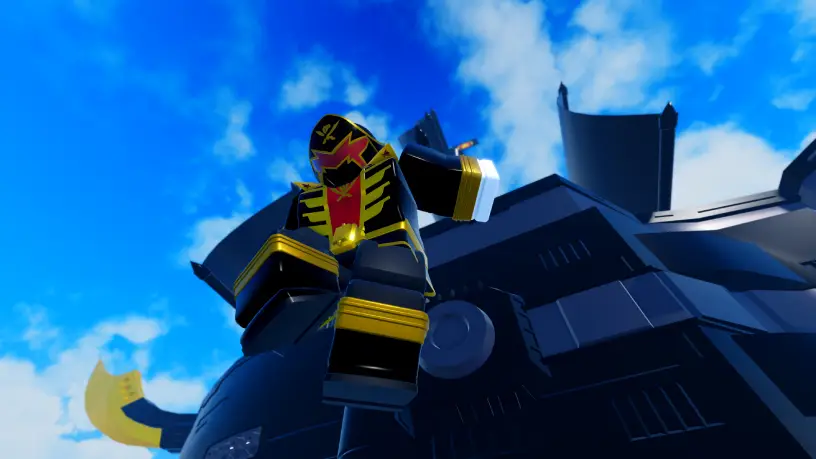
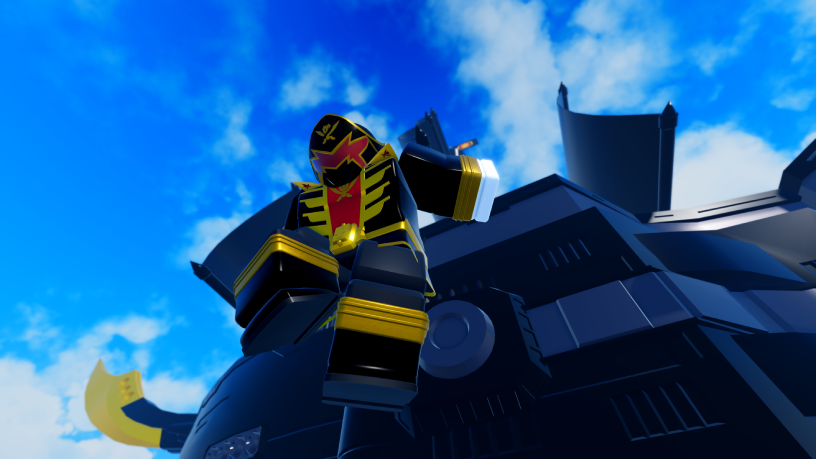
Convert images to webp format

diff --git a/index.html b/index.html
@@ -101,7 +101,7 @@
                         </div>
                     </div>
 
-                    <img src="assets/Image/RangerSentry.png" class="card_bg_image" alt="Group of Ranger Sentries marching">
+                    <img src="assets/Image/RangerSentry.webp" class="card_bg_image" alt="Group of Ranger Sentries marching">
                 </div>
             </section>
             
@@ -129,7 +129,7 @@
                         </div>
                     </div>
 
-                    <img src="assets/Image/Zeo_Rollcall.png" class="card_bg_image" alt="Zeo Ranger doing their roll call pose">
+                    <img src="assets/Image/Zeo_Rollcall.webp" class="card_bg_image" alt="Zeo Ranger doing their roll call pose">
                 </div>
             </section>
             
@@ -154,7 +154,7 @@
                         </div>
                     </div>
 
-                    <img src="assets/Image/Angel_Grove_City.png" class="card_bg_image" alt="Foggy view of Angel Grove City">
+                    <img src="assets/Image/Angel_Grove_City.webp" class="card_bg_image" alt="Foggy view of Angel Grove City">
                 </div>
             </section>
             
@@ -168,7 +168,7 @@
                         </div>
                 
                         <div class="col pb-2">
-                            <h3>Engage in PVE or fight with other players in PVP battles</h3>
+                            <h3>Engage in PVE or fight other players in PVP battles</h3>
                         </div>
                         
                         <div class="col">
@@ -180,7 +180,7 @@
                         </div>
                     </div>
 
-                    <img src="assets/Image/DT_fight.png" class="card_bg_image" alt="Dino Thunder White fighting Dino Thunder Black">
+                    <img src="assets/Image/DT_fight.webp" class="card_bg_image" alt="Dino Thunder White fighting Dino Thunder Black">
                 </div>
             </section>
             
@@ -205,7 +205,7 @@
                         </div>
                     </div>
 
-                    <img src="assets/Image/Skin.png" class="card_bg_image" alt="MMPR 1995 Movie skin">
+                    <img src="assets/Image/Skin.webp" class="card_bg_image" alt="MMPR 1995 Movie skin">
                 </div>
             </section>
         </main>

diff --git a/about.html b/about.html
@@ -54,7 +54,7 @@
                         </div>
                     </div>
 
-                    <img src="assets/Image/MainGame.png" class="card_bg_image">
+                    <img src="assets/Image/MainGame.webp" class="card_bg_image">
                 </div>
             </section>
             
@@ -84,7 +84,7 @@
                         </div>
                     </div>               
                     
-                    <img src="assets/Image/Sky_Ship.png" class="card_bg_image">
+                    <img src="assets/Image/Sky_Ship.webp" class="card_bg_image">
                 </div>
             </section>
 
@@ -136,7 +136,7 @@
                             </div>
                         </div>
 
-                        <img src="assets/Image/Ranger_Lineup_Tinted.png" class="card_bg_image">
+                        <img src="assets/Image/Ranger_Lineup_Tinted.webp" class="card_bg_image">
                     </div>
 
                     <div class="showcase_slide row">
@@ -180,7 +180,7 @@
                             </div>
                         </div>
 
-                        <img src="assets/Image/mmpr_duel_tinted.png" class="card_bg_image">
+                        <img src="assets/Image/mmpr_duel_tinted.webp" class="card_bg_image">
                     </div>
 
                     <div class="showcase_slide row">
@@ -223,10 +223,8 @@
                             </div>
                         </div>
 
-                        <img src="assets/Image/Zord_Graveyard_Tinted.png" class="card_bg_image">
+                        <img src="assets/Image/Zord_Graveyard_Tinted.webp" class="card_bg_image">
                     </div>
-                    
-                    <!-- <img src="assets/Image/Zord_Graveyard.png" class="card_bg_image"> -->
 
                     <button class="slideshow_btn" id="nextBtn">›</button>
                 </div>
@@ -326,7 +324,7 @@
                         </div>
                     </div>
 
-                    <img src="assets/Image/Zord_Graveyard.png" class="card_bg_image">
+                    <img src="assets/Image/Zord_Graveyard_Tinted.webp" class="card_bg_image">
                 </div>
             </section>
         </main>

diff --git a/postings/new_suits.html b/postings/new_suits.html
@@ -28,7 +28,7 @@
                 <div class="content_container row d-flex mt-5 px-5 pb-5
                                 flex-column align-items-center justify-content-center">
                     <div class="content_title col d-flex flex-column mt-5 pt-4">
-                        <h1>THE DREAM WORLD</h1>
+                        <h1>NEW RANGER SUITS!</h1>
                         <svg class="divider-svg" viewBox="0 0 600 40">
                             <line class="divider-line left-line" x1="60" y1="20" x2="280" y2="20" />
 
@@ -52,7 +52,7 @@
 
                             <figure class="post_img d-flex flex-column mt-2
                                             align-items-center justify-content-center">
-                                <img src="../assets/Image/Week2.png" alt="2 new rangers posing for the camera">
+                                <img src="../assets/Image/Week2.webp" alt="2 new rangers posing for the camera">
                                 
                                 <figcaption class="mt-2">
                                     New Ranger Suits Preview

diff --git a/postings/gokai_black.html b/postings/gokai_black.html
@@ -28,7 +28,7 @@
                 <div class="content_container row d-flex mt-5 px-5 pb-5
                                 flex-column align-items-center justify-content-center">
                     <div class="content_title col d-flex flex-column mt-5 pt-4">
-                        <h1>THE DREAM WORLD</h1>
+                        <h1>GOKAI BLACK UPDATE</h1>
                         <svg class="divider-svg" viewBox="0 0 600 40">
                             <line class="divider-line left-line" x1="60" y1="20" x2="280" y2="20" />
 
@@ -52,7 +52,7 @@
 
                             <figure class="post_img d-flex flex-column mt-2
                                             align-items-center justify-content-center">
-                                <img src="../assets/Image/GokaiBlack.png" alt="Gokai Black jumping off a ship">
+                                <img src="../assets/Image/GokaiBlack.webp" alt="Gokai Black jumping off a ship">
                                 
                                 <figcaption class="mt-2">
                                     Gokai Black Preview

diff --git a/postings/dream_world.html b/postings/dream_world.html
@@ -52,7 +52,7 @@
 
                             <figure class="post_img d-flex flex-column mt-2
                                             align-items-center justify-content-center">
-                                <img src="../assets/Image/Week3.png" alt="Kamen Rider Zeztz aura farming">
+                                <img src="../assets/Image/Week3.webp" alt="Kamen Rider Zeztz aura farming">
                                 
                                 <figcaption class="mt-2">
                                     Kamen Rider Zeztz Preview
